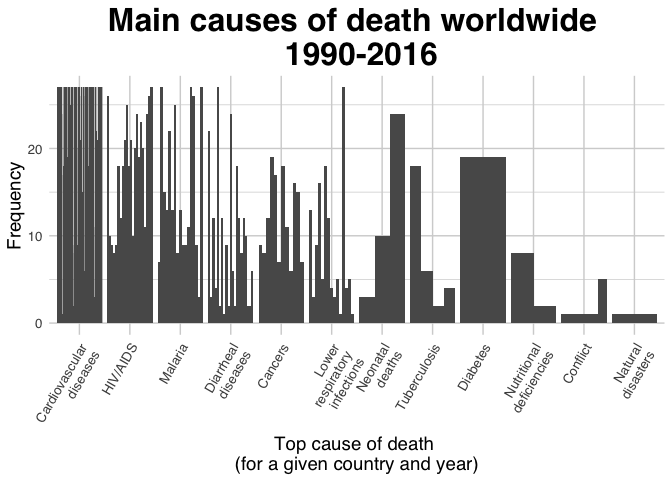
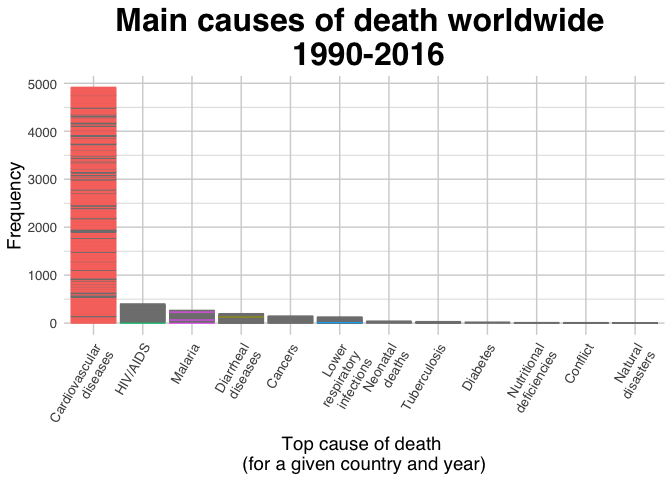
week 4 waffle plots.

diff --git a/TidyWork/Week4.md b/TidyWork/Week4.md
@@ -1,0 +1,142 @@
+Tidy Tuesday 4:
+================
+Dana Seidel
+5/18/2018
+
+Load data and libraries
+-----------------------
+
+``` r
+library(tidyverse)
+```
+
+    ## ── Attaching packages ───────────────────────────────────────────────────────────── tidyverse 1.2.1 ──
+
+    ## ✔ ggplot2 2.2.1.9000     ✔ purrr   0.2.4     
+    ## ✔ tibble  1.4.2          ✔ dplyr   0.7.4     
+    ## ✔ tidyr   0.8.0          ✔ stringr 1.3.0     
+    ## ✔ readr   1.1.1          ✔ forcats 0.3.0
+
+    ## ── Conflicts ──────────────────────────────────────────────────────────────── tidyverse_conflicts() ──
+    ## ✖ dplyr::filter() masks stats::filter()
+    ## ✖ dplyr::lag()    masks stats::lag()
+    ## ✖ dplyr::vars()   masks ggplot2::vars()
+
+``` r
+library(printr)
+
+salaries <- read_csv("../data/week4_australian_salary.csv")
+```
+
+    ## Warning: Missing column names filled in: 'X1' [1]
+
+    ## Parsed with column specification:
+    ## cols(
+    ##   X1 = col_integer(),
+    ##   gender_rank = col_integer(),
+    ##   occupation = col_character(),
+    ##   gender = col_character(),
+    ##   individuals = col_integer(),
+    ##   average_taxable_income = col_integer()
+    ## )
+
+``` r
+# looks like we are likely going to need some stringr to categorize these.
+
+# Let's look at just STEM fields broadly
+STEM <- salaries %>% 
+  filter(str_detect(occupation, "scien") | str_detect(occupation, "comput") |
+       str_detect(occupation, "engineer") | str_detect(occupation, "medic"),  
+       !(str_detect(occupation, "s*ales")))
+
+
+# Build that into the salaries df directly
+df_sal <- salaries %>% 
+  mutate(STEM = ifelse(
+    (str_detect(occupation, "scien") | str_detect(occupation, "comput") |
+       str_detect(occupation, "engineer") | str_detect(occupation, "medic") & 
+       !(str_detect(occupation, "s*ales"))), 1, 0))
+```
+
+Let's look at gender disparity in these STEM fields
+===================================================
+
+``` r
+# what are those numbers actually?
+STEM_gender_disparity <- salaries %>%
+  group_by(gender) %>%
+  summarise(total = sum(individuals)) %>%
+  ungroup() %>%
+  mutate(
+    STEMtotals = (STEM %>% group_by(gender) %>% summarise(total = sum(individuals)) %>% pull(total)), # is there a cleaner way to do this? Probably a mutate earlier on
+    percent_gender = STEMtotals / total * 100,
+    percent_total = STEMtotals / sum(total) * 100
+  )
+
+STEM_gender_disparity
+```
+
+| gender |    total|  STEMtotals|  percent\_gender|  percent\_total|
+|:-------|--------:|-----------:|----------------:|---------------:|
+| Female |  4915857|      138230|         2.811921|        1.343328|
+| Male   |  5374260|      358827|         6.676770|        3.487103|
+
+``` r
+# this is ugly but effective
+gender_ratios <- c(
+  STEM_ratio = STEM_gender_disparity[2, "STEMtotals"] / STEM_gender_disparity[1, "STEMtotals"],
+  total_ratio = STEM_gender_disparity[2, "total"] / STEM_gender_disparity[1, "total"]
+)
+#gender_ratios
+
+# what's a better way than bar charts for looking at proportions? waffle charts!
+# I want to account for STEM versus not STEM and also Male versus Female.
+
+#install.packages("waffle")
+library(waffle) 
+parts <- df_sal %>% 
+  group_by(gender, STEM) %>% 
+  summarise(total = sum(individuals)) %>% pull(total)
+names(parts) <- c("Females", "Females in STEM", "Males", "Males in STEM")
+parts <- c(parts[3:4], parts[1:2]) # hacky reorder
+
+
+waffle(parts/91500, # resize
+       colors = c("#92c5de", "#0571b0", "#f4a582", "#ca0020")) +
+   theme(plot.title = element_text(size = 18, hjust = .4),
+         legend.text = element_text(size = 12)) +
+  labs(
+      x = "", y = "",
+      title = "Gender Disparity in STEM Fields",
+      caption = "Tidy Tuesday Week 2, Data Source: data.gov.au"
+    )
+```
+
+![](Week4_files/figure-markdown_github/unnamed-chunk-2-1.png)
+
+Really makes the ratios stand out!
+
+Now for pay disparity...
+========================
+
+``` r
+parts <- df_sal %>% 
+  mutate(total_income = as.numeric(individuals)*as.numeric(average_taxable_income)) %>% 
+  group_by(gender, STEM) %>% 
+  summarise(total = sum(total_income, na.rm = T)) %>% pull(total)
+names(parts) <- c("Female $$", "Female STEM $$", "Male $$", "Male STEM $$")
+parts <- c(parts[3:4], parts[1:2]) # hacky reorder
+
+
+waffle(parts/5700000000, # resize
+       colors = c("#92c5de", "#0571b0", "#f4a582", "#ca0020")) +
+   theme(plot.title = element_text(size = 18, hjust = .4),
+         legend.text = element_text(size = 12)) +
+  labs(
+      x = "", y = "",
+      title = "Gender Pay Disparity in Australian STEM",
+      caption = "Tidy Tuesday Week 2, Data Source: data.gov.au"
+    )
+```
+
+![](Week4_files/figure-markdown_github/unnamed-chunk-3-1.png)

diff --git a/TidyWork/Week3.md b/TidyWork/Week3.md
@@ -53,7 +53,23 @@ Make a basic plot
 =================
 
 ``` r
-# basic plot
+ggplot(main_killers, aes(x = fct_infreq(main_cause))) + #LOVE me some forcats
+  geom_bar(aes(color = main_cause)) + 
+  my_theme +
+  ggtitle("Main causes of death worldwide \n 1990-2016") +
+  ylab("Frequency") +
+  xlab("Top cause of death \n(for a given country and year)")
+```
+
+![](Week3_files/figure-markdown_github/unnamed-chunk-4-1.png)
+
+``` r
+# i'm getting all this striping because of the factor "stack". 
+# i'd like to know how to ignore that... 
+
+
+
+# dodge plot
 ggplot(main_killers, aes(x = fct_infreq(main_cause))) + #LOVE me some forcats
   geom_bar(position = "dodge") + 
   my_theme +
@@ -62,7 +78,7 @@ ggplot(main_killers, aes(x = fct_infreq(main_cause))) + #LOVE me some forcats
   xlab("Top cause of death \n(for a given country and year)")
 ```
 
-![](Week3_files/figure-markdown_github/unnamed-chunk-4-1.png)
+![](Week3_files/figure-markdown_github/unnamed-chunk-4-2.png)
 
 Okay. While I think that's beautiful, it's admittedly not the best communication tool. It looks like a skyline :waxing\_gibbous\_moon: :city\_sunset: :smile:
 
